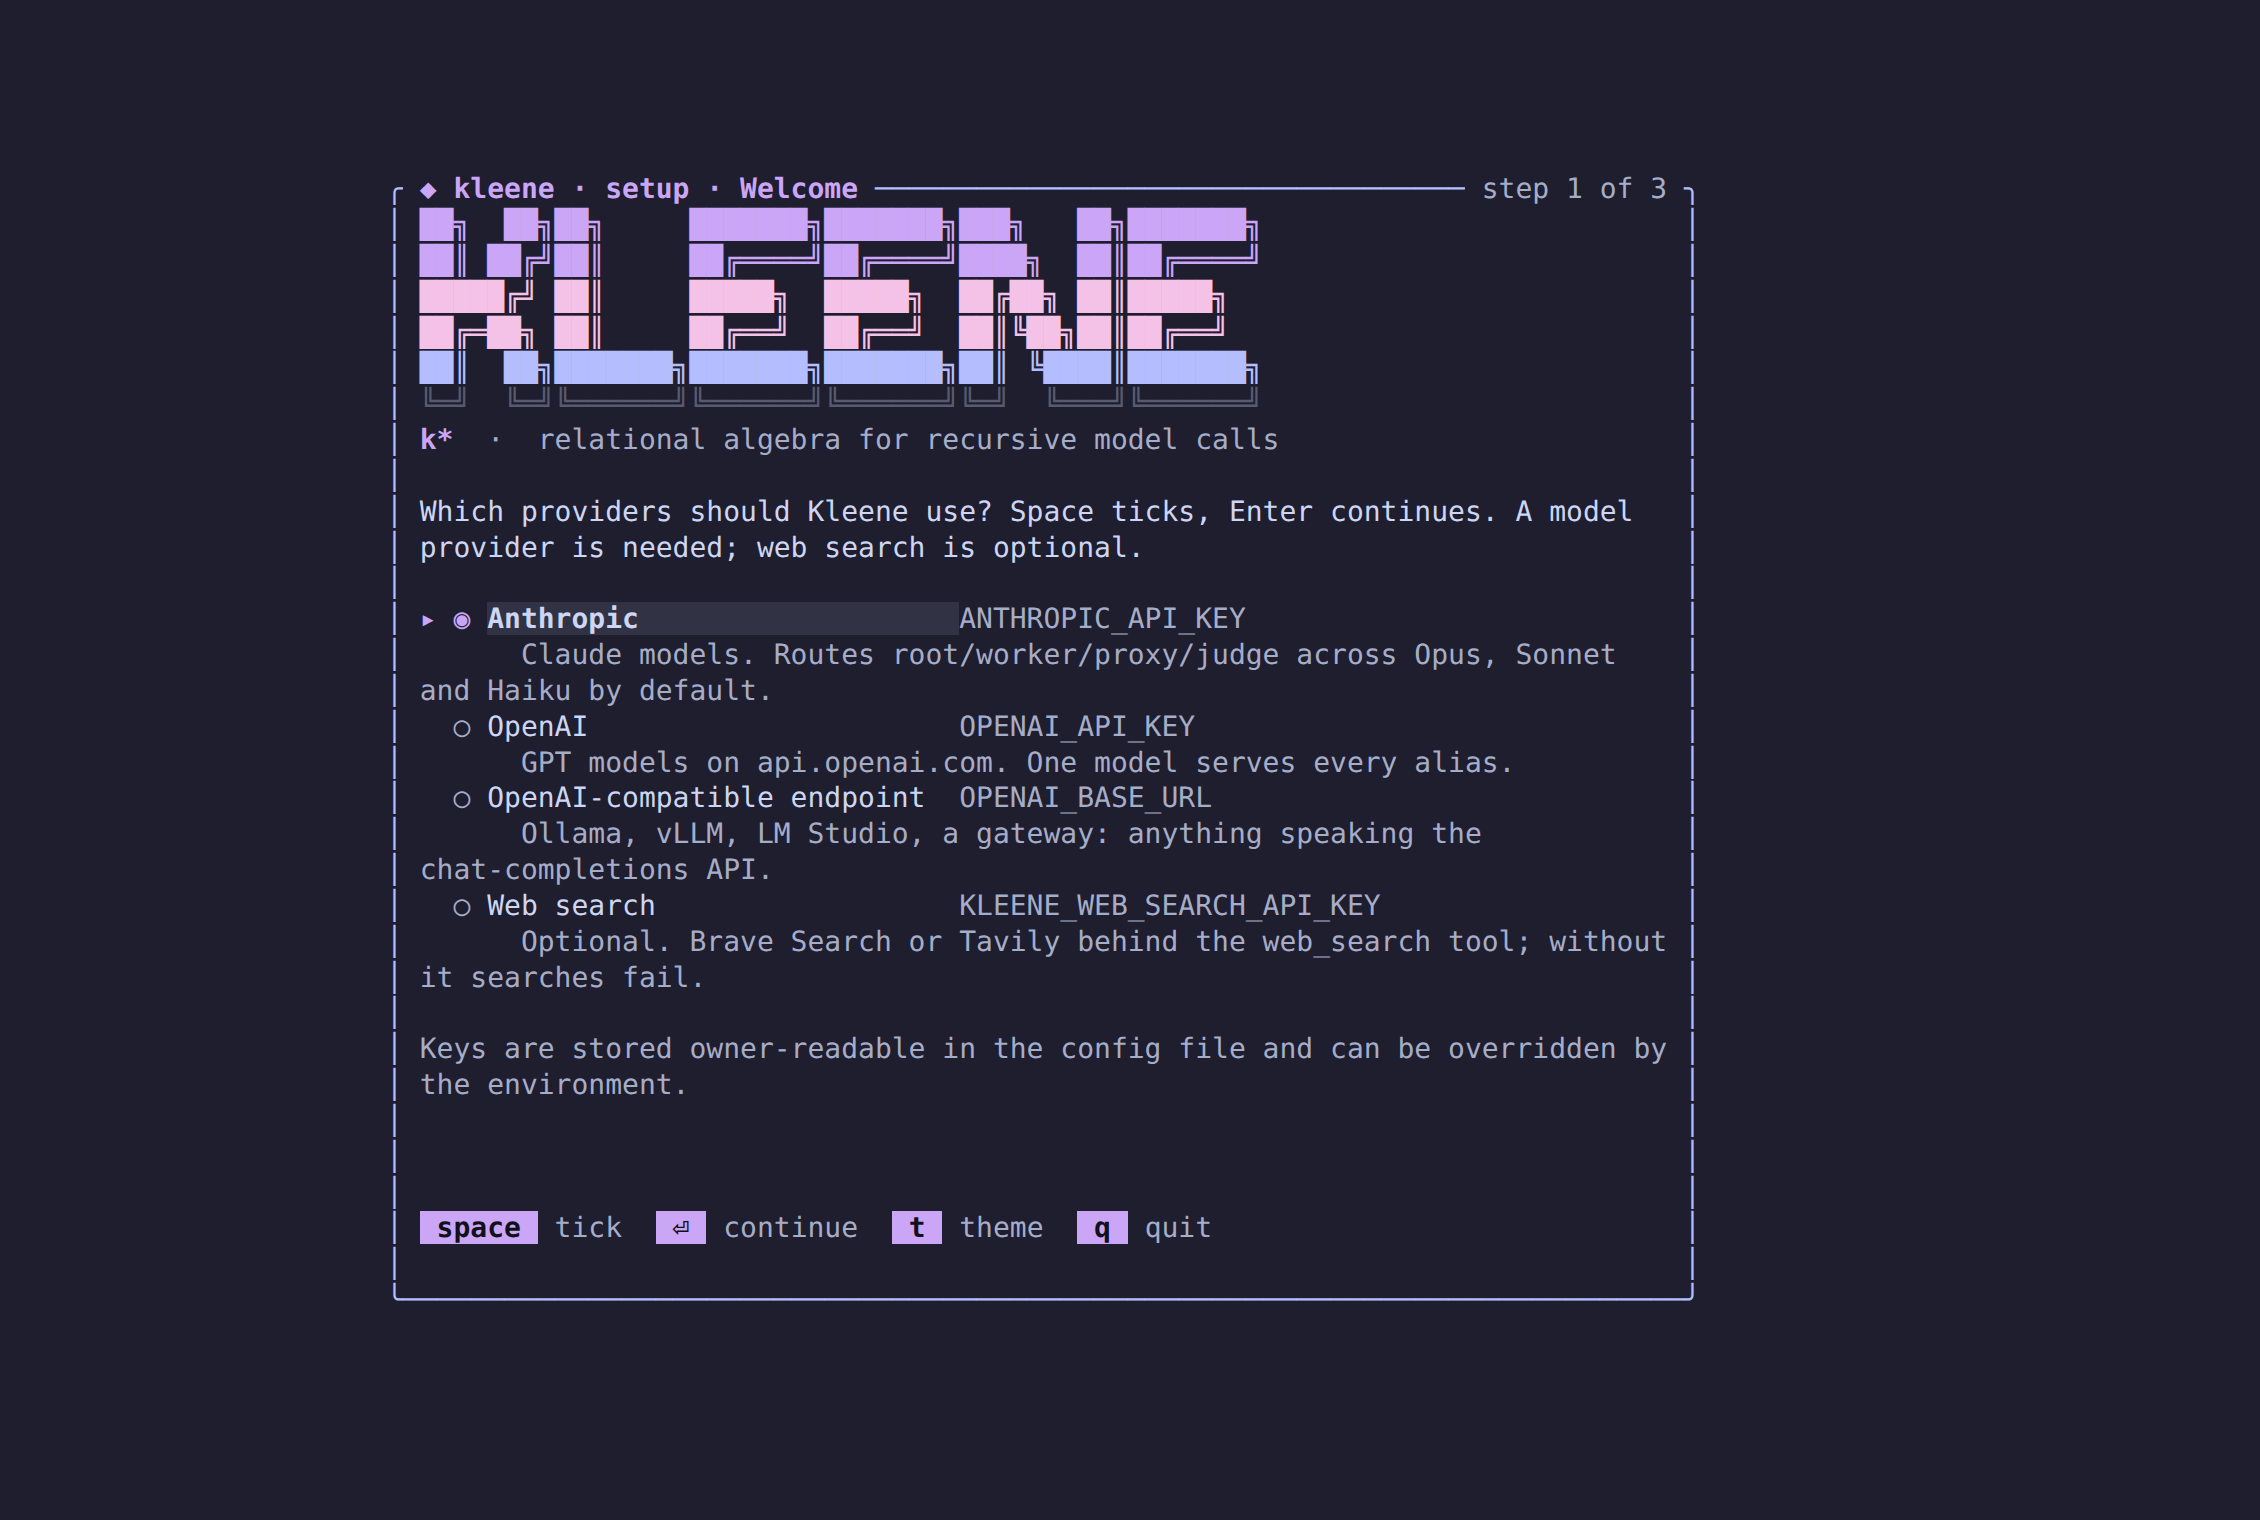
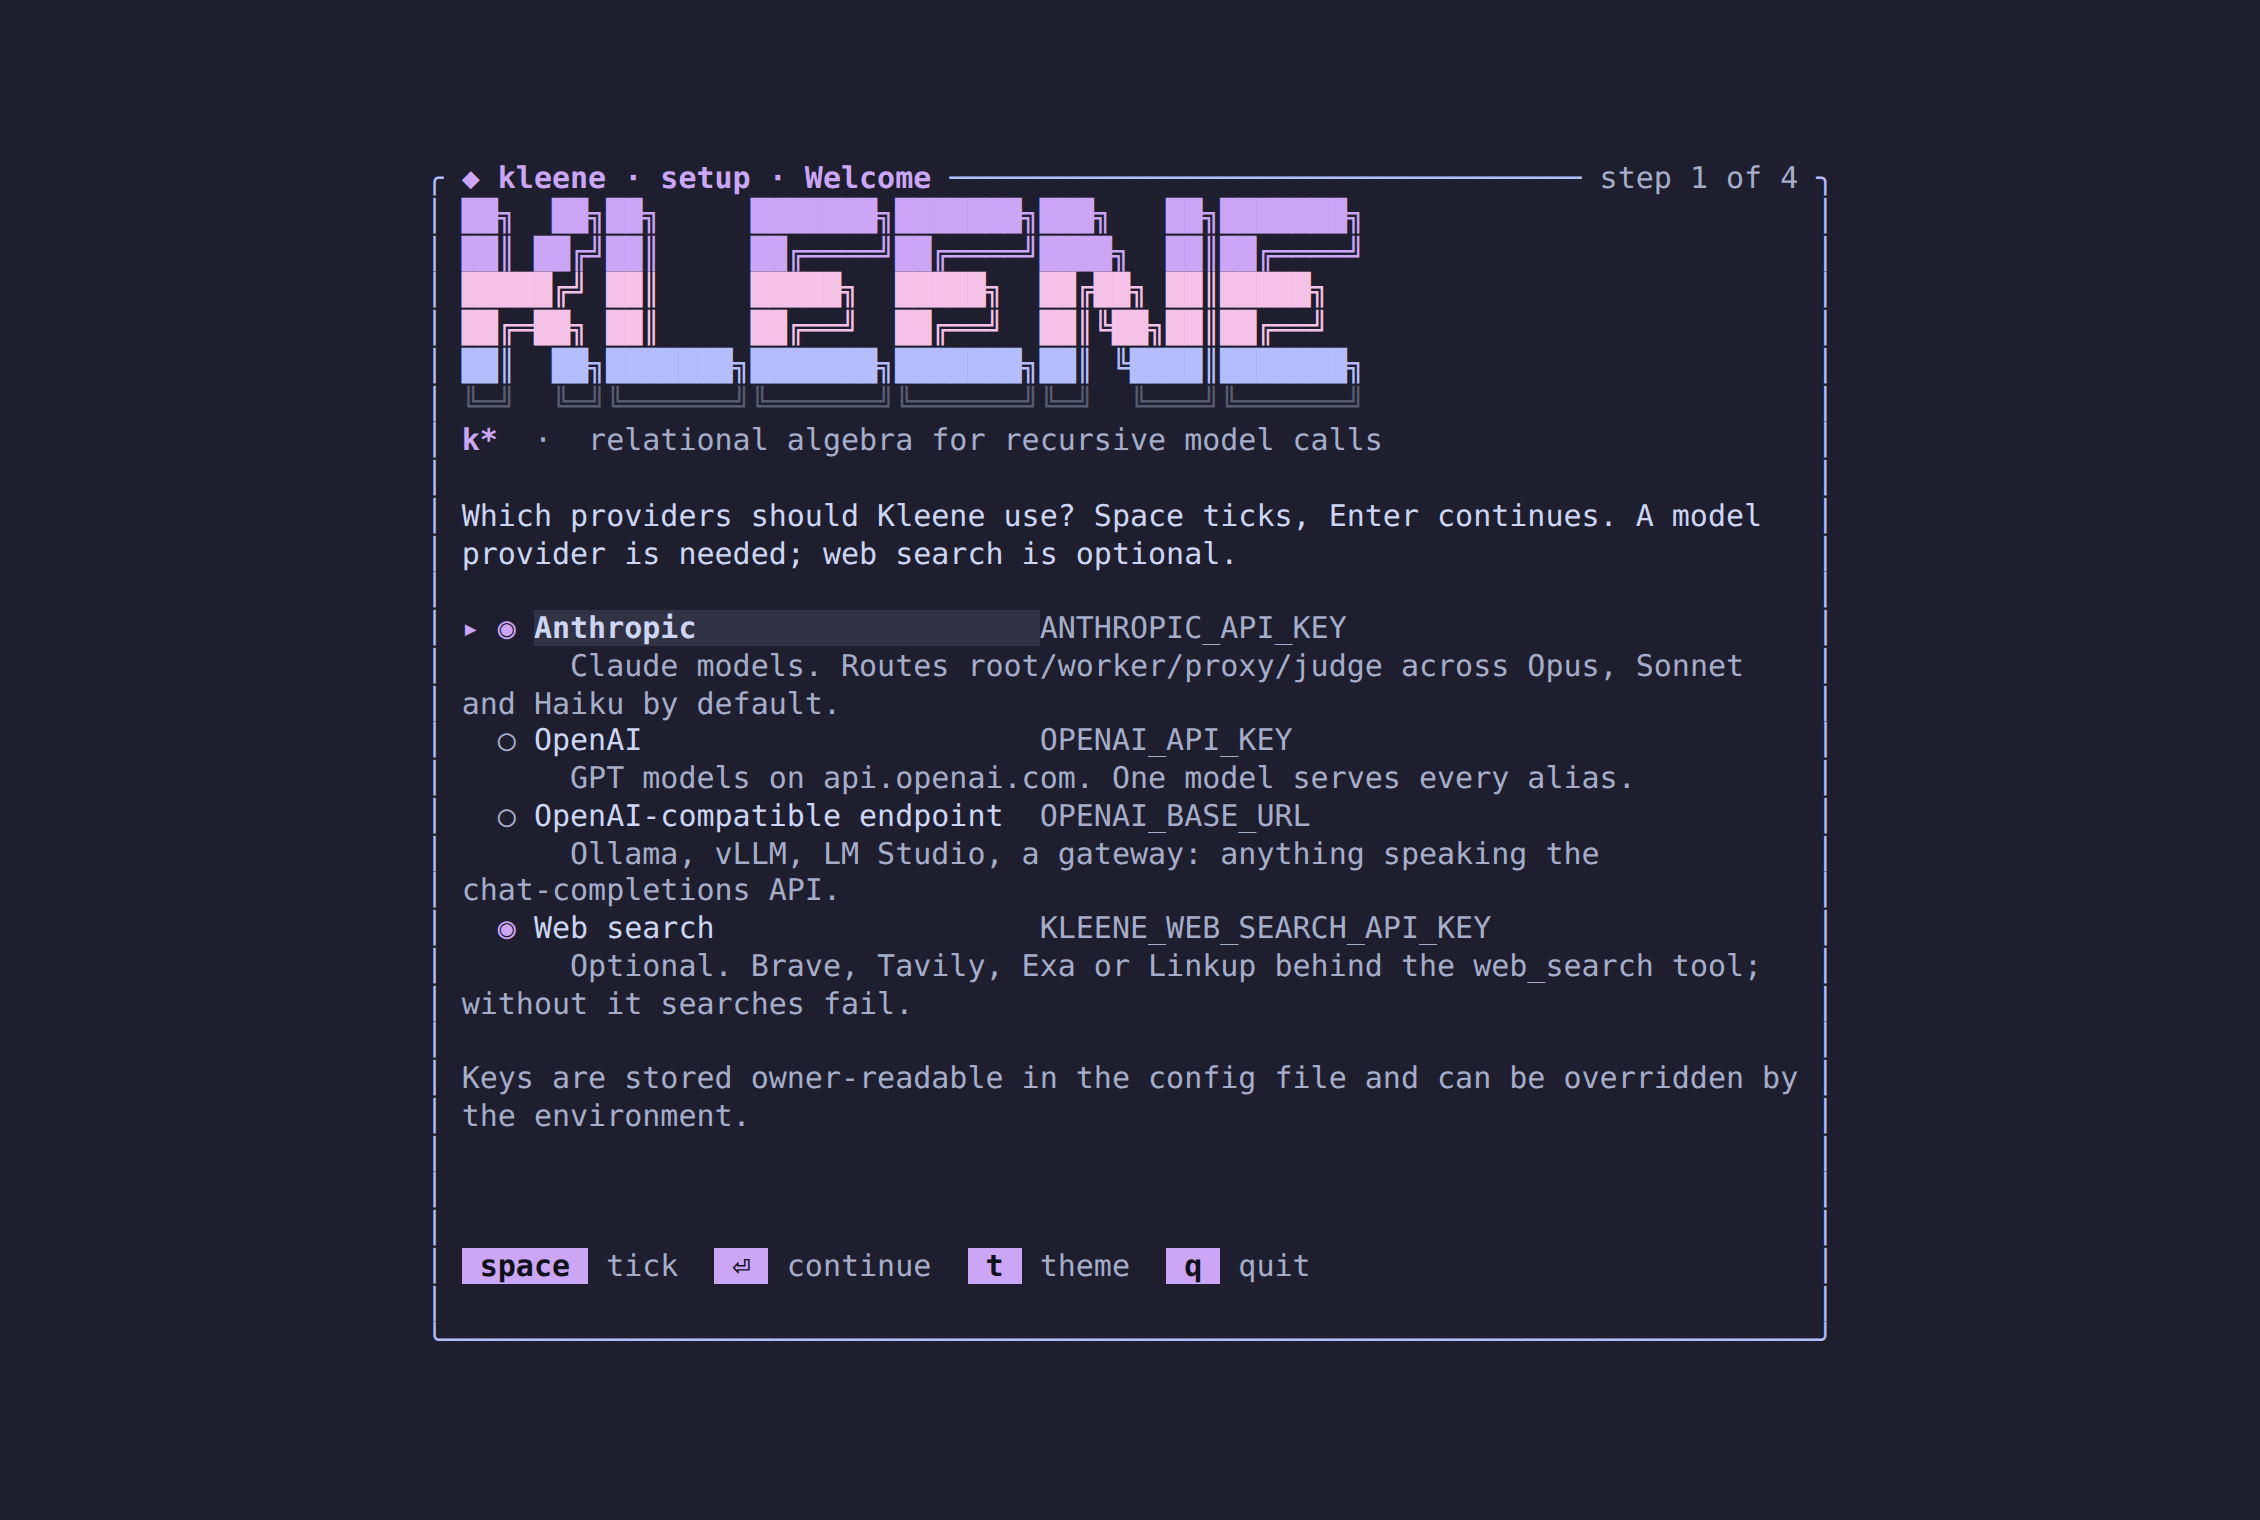
Setup wizard screenshots: the first step as it is now, and the web search page
The first-step screenshot still said Brave or Tavily; the row lists Exa and
Linkup too since #15. The gallery ticks Web search as well and captures its
credentials page, and docs/CLI.md shows it where /setup is described.

Claude-Session: https://claude.ai/code/session_013qngnckV9UfrHZsrcNpQfR

diff --git a/crates/kleene-tui/src/gallery.rs b/crates/kleene-tui/src/gallery.rs
@@ -424,6 +424,13 @@ fn gallery() {
         "/Users/marcus/.config/kleene/config.toml".into(),
     );
     key(&mut s, KeyCode::Char(' '));
+    for _ in 0..3 {
+        key(&mut s, KeyCode::Down);
+    }
+    key(&mut s, KeyCode::Char(' '));
+    key(&mut s, KeyCode::Up);
+    key(&mut s, KeyCode::Up);
+    key(&mut s, KeyCode::Up);
     shots.push(("setup-choose", render_setup(&s, w, h)));
     key(&mut s, KeyCode::Enter);
     for c in "sk-ant-api03-3QkZv7wLx0mN1pR8sT2uV4wX6yZ8".chars() {
@@ -431,6 +438,13 @@ fn gallery() {
     }
     shots.push(("setup-credentials", render_setup(&s, w, h)));
     key(&mut s, KeyCode::Enter);
+    key(&mut s, KeyCode::Enter);
+    assert_eq!(s.step, Step::Fields(1));
+    key(&mut s, KeyCode::Enter);
+    for c in "BSA3qLm9xP2vR7tW1yZ5cE8gH0jK4nQ6".chars() {
+        key(&mut s, KeyCode::Char(c));
+    }
+    shots.push(("setup-web-search", render_setup(&s, w, h)));
     key(&mut s, KeyCode::Enter);
     assert_eq!(s.step, Step::Review);
     shots.push(("setup-review", render_setup(&s, w, h)));

diff --git a/docs/CLI.md b/docs/CLI.md
@@ -161,6 +161,10 @@ kleene setup
 without a configured provider, and `/setup` at the TUI's prompt opens it
 again at any time to add or change keys; saving there asks the running
 daemon to reload, so the next run uses the new keys without a restart.
+Web search is the fourth row of the first step: tick it with space, and
+its own page asks for the service and the key.
+
+![The web search page of the setup wizard](screenshots/setup-web-search.png)
 Non-interactive forms for scripts:
 
 ```bash
